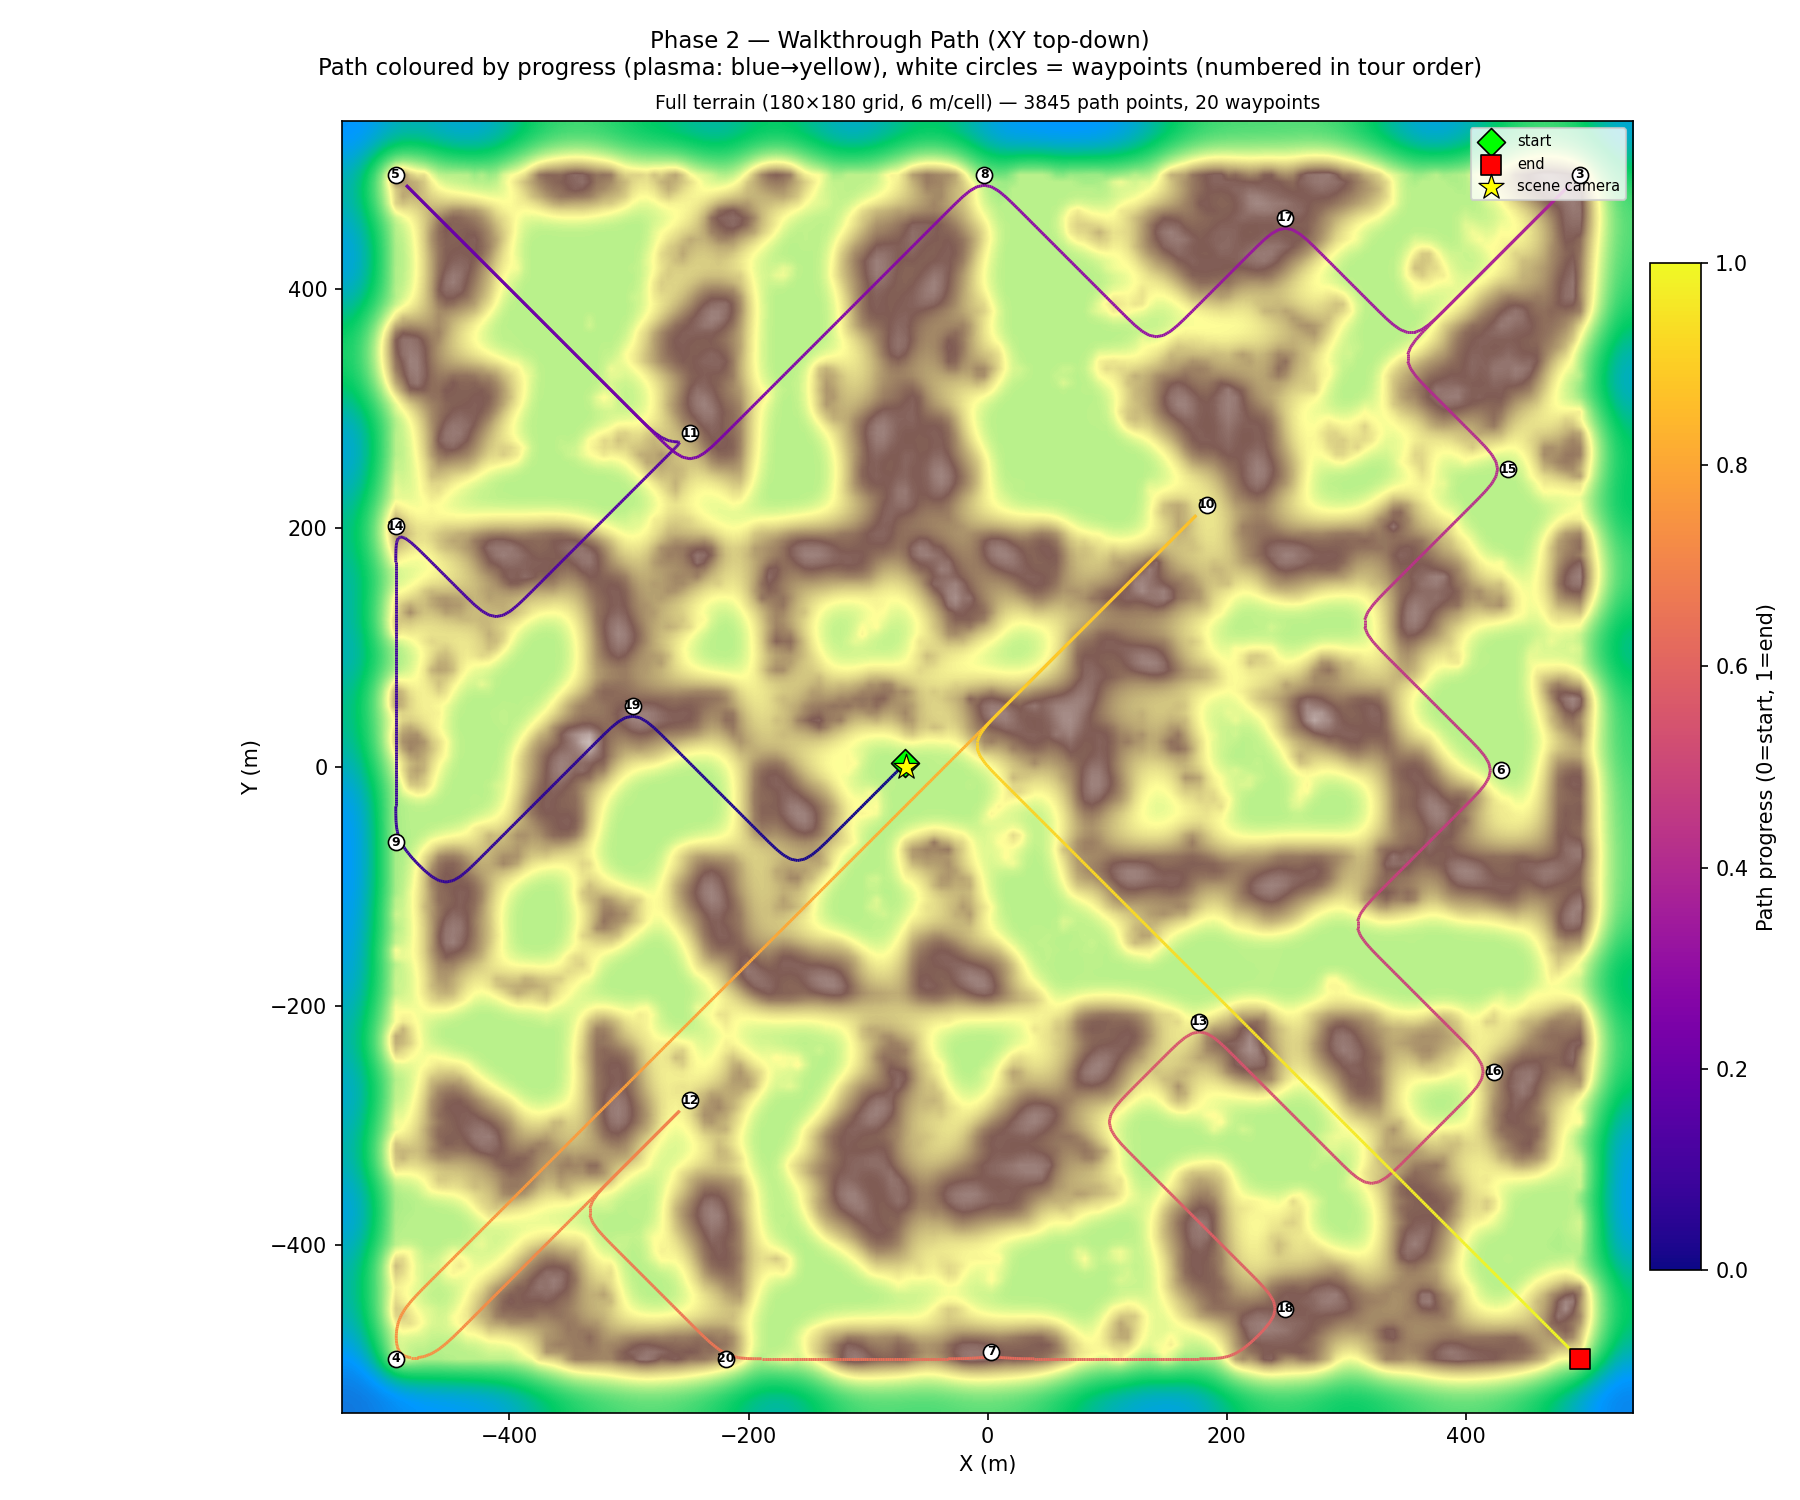
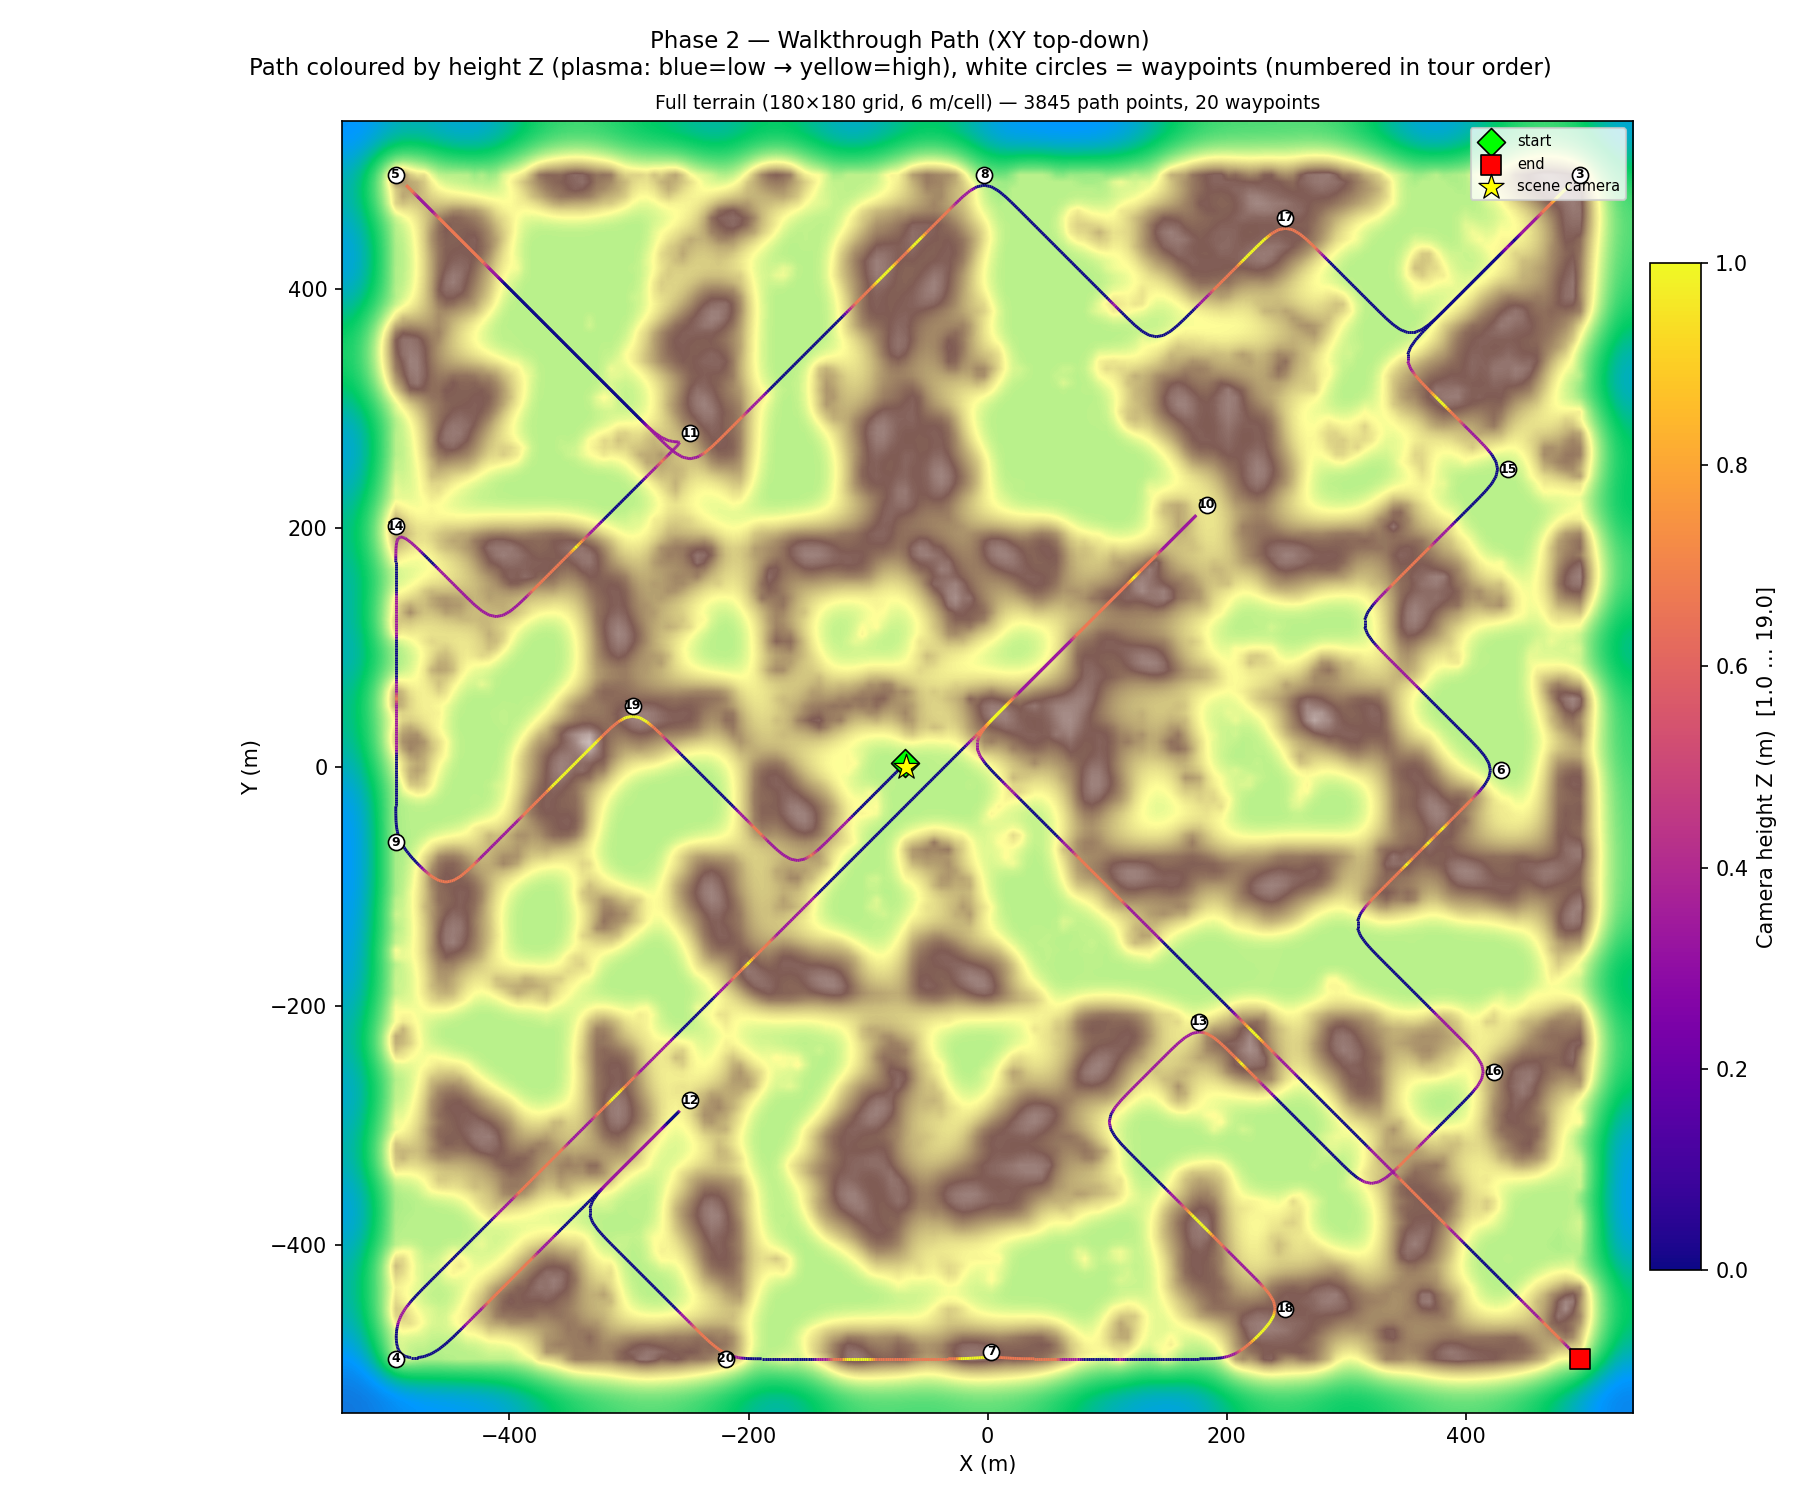
feat: colour path by height Z instead of progress
figure_5 and combined GIF/MP4: plasma colourmap now maps
camera Z (low=blue, high=yellow) instead of arc-length progress.
Colorbar label shows actual Z range in metres.

diff --git a/genesis_tools/active_contour/visualize.py b/genesis_tools/active_contour/visualize.py
@@ -764,12 +764,11 @@ def terrain_figure_5(td: TerrainData, out_dir: Path) -> None:
     vmin = float(np.nanmin(hm)) - 5
     vmax = float(np.nanmax(hm)) + 5
 
-    # Arc-length fraction for path colouring (0 = start, 1 = end)
-    diffs = np.diff(td.pts[:, :2], axis=0)
-    seg_len = np.sqrt((diffs**2).sum(axis=1))
-    cum = np.concatenate([[0.0], np.cumsum(seg_len)])
-    total = max(cum[-1], 1e-6)
-    t_frac = cum / total          # (N,) ∈ [0,1]
+    # Colour path by height (Z) — low=blue, high=yellow (plasma)
+    z = td.pts[:, 2]
+    z_min, z_max = float(z.min()), float(z.max())
+    z_span = max(z_max - z_min, 1e-6)
+    t_frac = (z - z_min) / z_span    # (N,) ∈ [0,1]
 
     def _draw_panel(ax, xlim, ylim, title, label_wps=True):
         im = ax.imshow(hm.T, origin="lower",
@@ -777,7 +776,7 @@ def terrain_figure_5(td: TerrainData, out_dir: Path) -> None:
                        cmap="terrain", vmin=vmin, vmax=vmax,
                        aspect="equal", interpolation="bilinear")
 
-        # Path coloured by progress: blue → red
+        # Path coloured by height: low=blue, high=yellow (plasma)
         from matplotlib.collections import LineCollection
         pts2 = td.pts[:, :2]
         segs = np.stack([pts2[:-1], pts2[1:]], axis=1)
@@ -817,13 +816,13 @@ def terrain_figure_5(td: TerrainData, out_dir: Path) -> None:
         # Colourbar for path progress
         sm = plt.cm.ScalarMappable(cmap="plasma", norm=plt.Normalize(0, 1))
         sm.set_array([])
-        plt.colorbar(sm, ax=ax, label="Path progress (0=start, 1=end)",
+        plt.colorbar(sm, ax=ax, label=f"Camera height Z (m)  [{z_min:.1f} … {z_max:.1f}]",
                      fraction=0.03, pad=0.01)
 
     fig, ax = plt.subplots(1, 1, figsize=(12, 10))
     fig.suptitle(
         "Phase 2 — Walkthrough Path (XY top-down)\n"
-        "Path coloured by progress (plasma: blue→yellow), white circles = waypoints (numbered in tour order)",
+        "Path coloured by height Z (plasma: blue=low → yellow=high), white circles = waypoints (numbered in tour order)",
         fontsize=11,
     )
 

diff --git a/genesis_tools/walkthrough_renderer/combined_gif.py b/genesis_tools/walkthrough_renderer/combined_gif.py
@@ -99,10 +99,11 @@ def _iter_combined_frames(
 
     all_px = _world_to_px(path_pts[:, :2], bounds, map_px)
 
-    diffs = np.diff(path_pts[:, :2], axis=0)
-    seg_len = np.sqrt((diffs**2).sum(axis=1))
-    cum = np.concatenate([[0.0], np.cumsum(seg_len)])
-    t_frac = cum / max(cum[-1], 1e-6)
+    # Colour trail by height (Z) — normalised to [0,1] across the path's Z range
+    z = path_pts[:, 2]
+    z_min, z_max = float(z.min()), float(z.max())
+    z_span = max(z_max - z_min, 1e-6)
+    t_frac = (z - z_min) / z_span   # (P,) — 0=lowest, 1=highest
 
     dot_r = max(4, map_px // 80)
     trail_w = max(1, map_px // 200)
